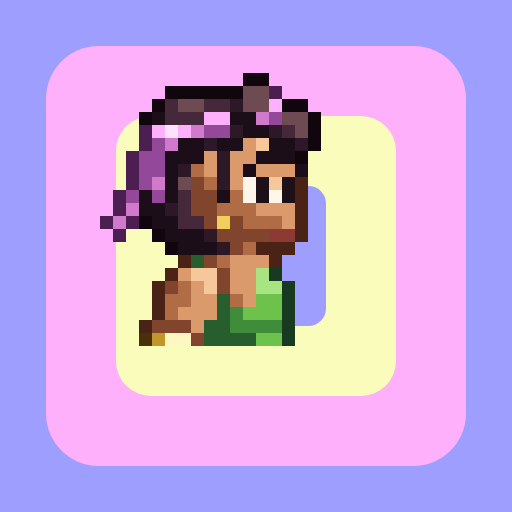
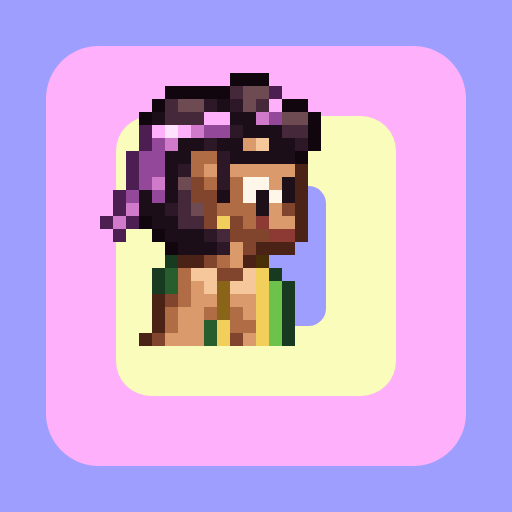
Etapa 10: polimento leve antes do lançamento
- og-image e ícones refeitos com o Aladdin novo e a rua de paralelepípedo.
- Robô aceita TELA=LxA; jogou até o Final em iPhone (844x390) e Android
  (915x412), sem erros.
- Revisão de textos ("Rá!" na risada do Jafar).
- CLAUDE.md: Status e próximo passo (lançamento).

Claude-Session: https://claude.ai/code/session_01PQYRHBeREwxWYLdpUW5UjZ

diff --git a/src/data/textos.js b/src/data/textos.js
@@ -6,7 +6,7 @@ export const TEXTOS = {
     nomeFase: 'Fase 3 · Resgate',
     nomeJafar: 'Jafar',
     nomePaula: 'Tia Paula',
-    jafarEntrada: 'Ha! Sem a Tia Paula, nada de espetáculo!',
+    jafarEntrada: 'Rá! Sem a Tia Paula, nada de espetáculo!',
     paulaSocorro: 'Socorro!',
     paulaAntes: ['Aladdin! Quando o Jafar cansar e descer, acerte maçãs nele!'],
     objetivo: 'Acerte maçãs no Jafar quando ele cansar!',

diff --git a/CLAUDE.md b/CLAUDE.md
@@ -366,17 +366,13 @@ Cada etapa termina com PR contra `dev` e o checklist da seção 3.
 | Correções + níveis | 01/11/2026 | [PR 24](https://github.com/PedroCDSR/jogo-aladdin-paula-de-marco/pull/24) | **Bugs:** gaiola fechada durante a luta (2 barras finas na frente, Tia Paula visível); tiles na frente dos lugares (a igreja escondia plataforma e toldo; o toldo virou escadinha encostada no muro e a plataforma virou tábua no buraco); Clube Itajubense todo branco; rua e muro embaixo dos prédios do voo; morro do Hotel Coroados com topo largo. **Maçãs sem limite.** **Dificuldade** escolhida no Título depois de JOGAR (`src/dificuldade.js`, lembra a última escolha; teste: `?dificuldade=facil`): fácil = Fase 1 com 192 colunas e sem buracos, Espaço com 60 colunas, Tapete com 4 trechos (20 s), 5 corações, Jafar com 3 de vida e leque de 2 tiros mais lentos, perde 1 sapatilha; médio (escolha do Claude, padrão) = mapas inteiros, 4 corações, Jafar com 4 de vida e tiros um pouco mais lentos, perde 1 sapatilha; difícil = o jogo de antes. Robô: fácil 96 s, médio 146 s, difícil 142 s, sem erros. `dist/` = 2,0 MB. |
 | Sapatilha nova | 01/11/2026 | [PR 25](https://github.com/PedroCDSR/jogo-aladdin-paula-de-marco/pull/25) | Par de sapatilhas de ponta rosa bebê, de frente, lado a lado (19×18, laço no alto, fitas cruzadas em X sobre a palmilha creme, brilho piscando), desenho próprio a partir dos prints do Pedro (só referência, não vão para o repositório). A mesma arte vale na Fase 1, no Espaço, no céu do Tapete e no HUD (a `sapatilhaCeu` saiu). Contadores do HUD afastados para caber o ícone. |
 | Busto da praça | 02/11/2026 | [PR 26](https://github.com/PedroCDSR/jogo-aladdin-paula-de-marco/pull/26) | Busto do Theodomiro Santiago redesenhado a partir da foto do Pedro: 34×42 (antes 30×30), rosto de 16×20 desenhado pixel a pixel (cabelo ondulado com volume, sobrancelhas, olhos fundos, nariz, boca fechada, queixo; sem o bigode inventado), terno com colete, botões, gravata e lenço, em bronze escurecido cinza-esverdeado como na foto. Pedestal mais largo com placa de bronze "THEODOMIRO / SANTIAGO". `fonte.png` passou para 172×116. |
-| Teatro do G9 | 02/11/2026 | (este PR) | Fachada do Teatro do Colégio G9 refeita a partir da foto e do logo enviados pelo Pedro (uso autorizado pelo G9, em `CREDITS.md`): prédio de concreto cinza-claro, janelas e ar-condicionado à esquerda, logo do G9 em pixel (anel preto e "9" laranja), letreiro "CURSO G9" (como na foto), entrada de vidro com "TEATRO" e luzinhas, marquise escura e palmeiras. PNG `teatro-g9.png` (200×170) com a luz do crepúsculo; o tapete pousa na entrada de vidro. |
+| Teatro do G9 | 02/11/2026 | [PR 27](https://github.com/PedroCDSR/jogo-aladdin-paula-de-marco/pull/27) | Fachada do Teatro do Colégio G9 refeita a partir da foto e do logo enviados pelo Pedro (uso autorizado pelo G9, em `CREDITS.md`): prédio de concreto cinza-claro, janelas e ar-condicionado à esquerda, logo do G9 em pixel (anel preto e "9" laranja), letreiro "CURSO G9" (como na foto), entrada de vidro com "TEATRO" e luzinhas, marquise escura e palmeiras. PNG `teatro-g9.png` (200×170) com a luz do crepúsculo; o tapete pousa na entrada de vidro. |
+| 10 | 02/11/2026 | (este PR) | Polimento leve (pedido do Pedro): `og-image.png` e ícones refeitos com o Aladdin novo e a rua de paralelepípedo; robô com tamanho de tela (`TELA=844x390` iPhone, `TELA=915x412` Android) chegou ao Final nos dois, sem erros (médio 134 s, difícil 143 s); revisão dos textos ("Rá!" na risada do Jafar). A fachada do Shopping Vila Nova foi descartada pelo Pedro: a fachada da escola continua a de antes. `dist/` = 2,0 MB. Liberado para o lançamento pelo Pedro. |
 
-**Próximo passo (01/11/2026):** as Etapas 3 a 7, 8.0 e 9 estão no `dev`: o jogo vai de ponta a ponta (Título → Intro →
-Itajubá → Espaço → Chefe → Tapete → Final), com o herói novo na escala 48×64. Próximas, uma por vez:
-**8A** personagens na escala 48×64 com `ferramentas/arte/modelo.py` (Jasmine, Gênio, Sultão, Abu, Tia Claudia, Tia
-Paula loira, Jafar, capivara; aproveitar só o que servir da branch `etapa-8a-personagens`, que ainda está em 32×48) →
-**8B** cenários (partindo da branch `etapa-8b-cenarios`) → **10** polimento, revisão geral e relatório final. Novas
-fases que usam o HUD precisam estar em `FASES` (`src/fluxo.js`) para o menu de pausa funcionar nelas. Para testar
-direto: `?fase=itajuba`, `?fase=espaco`, `?fase=chefe`, `?fase=tapete`, `?fase=final`. Jogada automática:
-`node ferramentas/teste/jogar.mjs` com o `npm run dev` rodando.
-O Pedro só testa no fim, antes do lançamento, e revisa as falas em `src/data/textos.js`.
+**Próximo passo (02/11/2026):** jogo completo de ponta a ponta e publicado em produção (`main`) a pedido do Pedro:
+https://aladdin-paulademarco.netlify.app. Falta só o que depende dele: logo da escola em boa resolução, OK da Tia
+Paula e da Tia Claudia, fotos do estúdio do Espaço, e o teste em 2 celulares de verdade. Cada novo deploy de produção
+gasta créditos do Netlify: juntar as mudanças no `dev` e só então levar para a `main`.
 
 **Decisões dos níveis de dificuldade (01/11/2026):**
 - Pedido do Pedro: o jogo estava difícil; o nível de antes virou o "difícil". Fácil = ~40% mais curto, sem buracos e Jafar 50% mais fraco. O médio ficou a critério do Claude.
